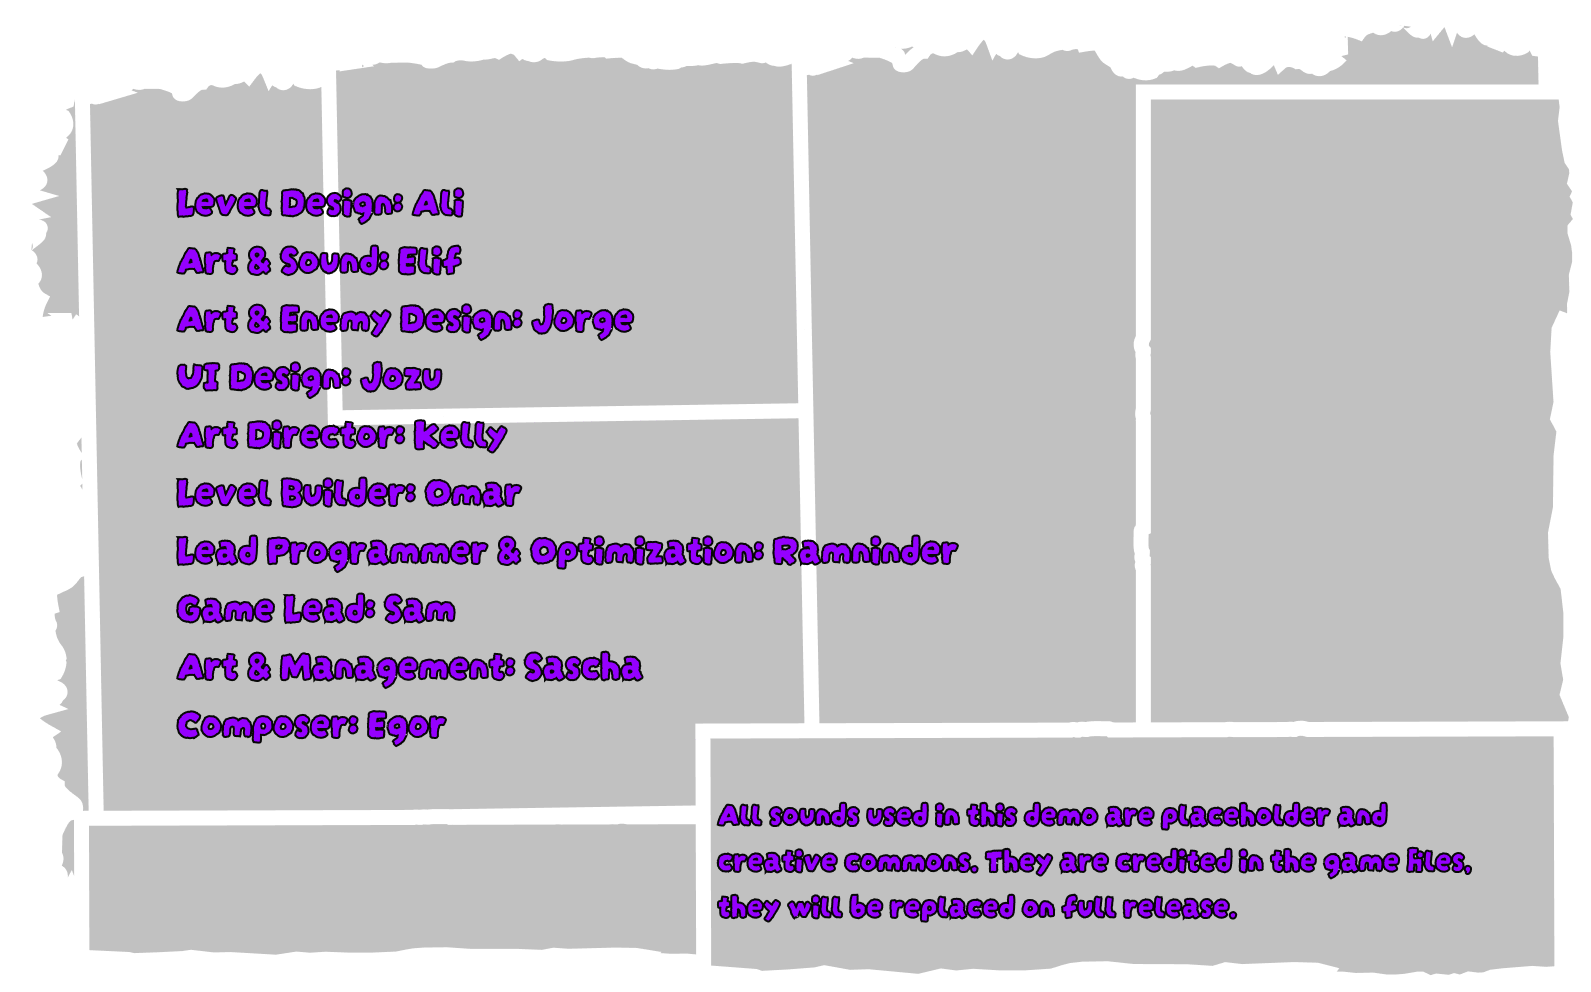
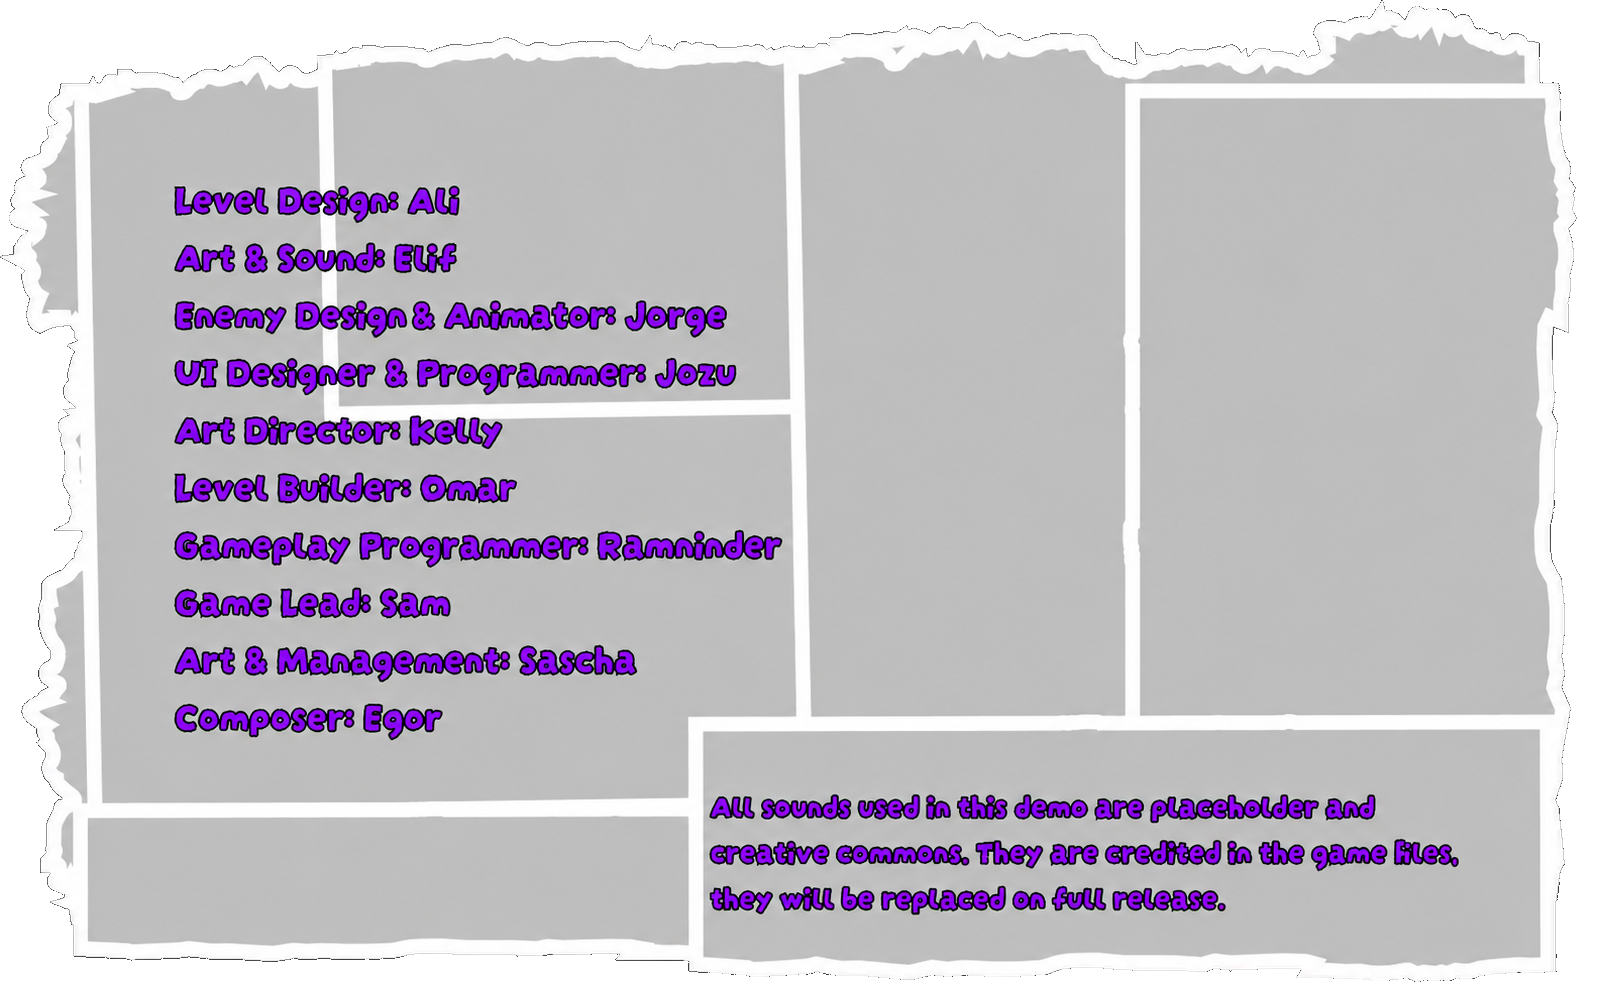
Enemy falling out of map bug fixed

diff --git a/Assets/Scripts/Enemy.cs b/Assets/Scripts/Enemy.cs
@@ -63,6 +63,9 @@ public class Enemy : MonoBehaviour
     private Vector3 positionLastFrameForSound;
     private float nextWalkSoundTime = 0f;
     private NavMeshAgent navAgent;
+    private Rigidbody enemyRigidbody;
+    private Vector3 movementDirection;
+    private Quaternion desiredRotation;
 
     [Header("LayerMask")]
     public LayerMask layerMask;
@@ -70,8 +73,28 @@ public class Enemy : MonoBehaviour
     [Header("Spawn Animation clone")]
     public GameObject spawnAnimClone;
 
+    private void Awake()
+    {
+        enemyRigidbody = GetComponent<Rigidbody>();
+        if (enemyRigidbody != null)
+        {
+            enemyRigidbody.constraints |= RigidbodyConstraints.FreezeRotation;
+            if (enemyRigidbody.collisionDetectionMode == CollisionDetectionMode.Discrete)
+            {
+                enemyRigidbody.collisionDetectionMode = CollisionDetectionMode.ContinuousSpeculative;
+            }
+        }
+    }
+
+    private void OnEnable()
+    {
+        movementDirection = Vector3.zero;
+        desiredRotation = transform.rotation;
+    }
+
     private void OnDisable()
     {
+        movementDirection = Vector3.zero;
         PlayAnimation("Default");
     }
 
@@ -113,6 +136,7 @@ public class Enemy : MonoBehaviour
 
     private void Update()
     {
+        movementDirection = Vector3.zero;
         if (isDead) return;
 
         if (mainCam != null)
@@ -121,7 +145,11 @@ public class Enemy : MonoBehaviour
             lookDirection.y = 0;
             if (lookDirection != Vector3.zero)
             {
-                transform.rotation = Quaternion.LookRotation(lookDirection);
+                desiredRotation = Quaternion.LookRotation(lookDirection);
+                if (enemyRigidbody == null || enemyRigidbody.isKinematic || navAgent != null)
+                {
+                    transform.rotation = desiredRotation;
+                }
             }
         }
 
@@ -162,7 +190,7 @@ public class Enemy : MonoBehaviour
                         }
                         else
                         {
-                            transform.position += moveDirection * speed * Time.deltaTime;
+                            MoveInDirection(moveDirection);
                         }
                     }
 
@@ -192,7 +220,7 @@ public class Enemy : MonoBehaviour
                         }
                         else
                         {
-                            transform.position += moveDirection * speed * Time.deltaTime;
+                            MoveInDirection(moveDirection);
                         }
 
                         if (!walkAnimPlaying && !isAttacking)
@@ -231,7 +259,7 @@ public class Enemy : MonoBehaviour
                     }
                     else
                     {
-                        transform.position += newMoveDirection * speed * Time.deltaTime;
+                        MoveInDirection(newMoveDirection);
                     }
 
                     if (!walkAnimPlaying && !isAttacking)
@@ -264,7 +292,7 @@ public class Enemy : MonoBehaviour
                 }
                 else
                 {
-                    transform.position += newMoveDirection * speed * Time.deltaTime;
+                    MoveInDirection(newMoveDirection);
                 }
 
                 if (!walkAnimPlaying)
@@ -284,6 +312,32 @@ public class Enemy : MonoBehaviour
         }
 
         CheckAndPlayWalkSound();
+    }
+
+    private void MoveInDirection(Vector3 direction)
+    {
+        if (enemyRigidbody != null && !enemyRigidbody.isKinematic)
+        {
+            movementDirection = direction;
+        }
+        else
+        {
+            transform.position += direction * speed * Time.deltaTime;
+        }
+    }
+
+    private void FixedUpdate()
+    {
+        if (isDead || navAgent != null || enemyRigidbody == null || enemyRigidbody.isKinematic)
+        {
+            return;
+        }
+
+        Vector3 velocity = enemyRigidbody.linearVelocity;
+        velocity.x = movementDirection.x * speed;
+        velocity.z = movementDirection.z * speed;
+        enemyRigidbody.linearVelocity = velocity;
+        enemyRigidbody.MoveRotation(desiredRotation);
     }
 
     private void CheckAndPlayWalkSound()

diff --git a/Assets/Scripts/AutoDisableEnemies.cs b/Assets/Scripts/AutoDisableEnemies.cs
@@ -4,10 +4,18 @@ public class AutoDisableEnemies : MonoBehaviour
 {
     private void OnTriggerEnter(Collider other)
     {
-        if (other.gameObject.layer == LayerMask.NameToLayer("Enemy"))
+        if (other.gameObject.layer != LayerMask.NameToLayer("Enemy"))
         {
-            other.gameObject.SetActive(false);
-            Debug.LogWarning($"AutoDisableEnemies: Disabled enemy {other.gameObject.name} on trigger enter.");
+            return;
         }
+
+        Enemy enemy = other.GetComponentInParent<Enemy>();
+        if (enemy == null)
+        {
+            return;
+        }
+
+        enemy.gameObject.SetActive(false);
+        Debug.LogWarning($"AutoDisableEnemies: Disabled enemy {enemy.gameObject.name} on trigger enter.", enemy);
     }
 }

diff --git a/Assets/Scripts/UI/MainMenuController.cs b/Assets/Scripts/UI/MainMenuController.cs
@@ -21,6 +21,8 @@ public class MainMenuController : MonoBehaviour
     {
         // Ensure only the main menu is visible when the game starts
         ShowMainMenu();
+        Cursor.visible = true;
+        Cursor.lockState = CursorLockMode.None;
     }
 
     /// <summary>
